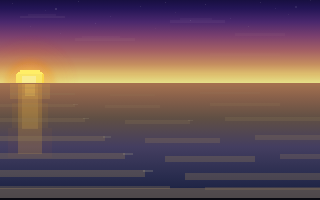
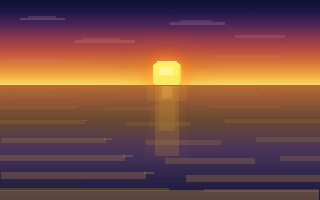
Seascape: sun and moon move as seen west from Mikuni
The view is the Sea of Japan from Mikuni, Fukui, looking west, but the sun
rose out of the sea on the left and arced symmetrically to the right, and
the full moon rose out of the sea right after sunset. From there both rise
behind the viewer over land and only ever set into the sea.

- Sun and moon positions come from real altitude/azimuth at 36.2°N
  (equinox), projected with a deliberately wide field of view so the sun
  stays on screen from late morning: it swings in at the upper left,
  peaks near the top left and sinks diagonally down-right into the sea
- The moon is a couple of days short of full: in view from mid-dusk at
  the upper left, setting into the sea just before dawn, warming as it
  gets low
- Dawn colours are pastel (pink Belt of Venus over a blue-grey horizon)
  instead of an orange glow over the sea; morning sea sparkles are faint
  and no longer warm
- DAY preset moves to 0.38 so the sun sits comfortably in frame
- Landing-page thumbnail now captures the sunset (t=0.61) instead of the
  old sunrise-from-the-sea frame

Claude-Session: https://claude.ai/code/session_01UkZh3SWPSGj722SgHXnTod

diff --git a/seascape.html b/seascape.html
@@ -269,7 +269,7 @@ let g_thunder=0; // 雷トリガーカウンター（増加でオーディオIIF
 // starting at sunrise); picking a preset time-lapses forward to its phase and
 // holds the scene there. The choice is remembered per browser.
 // Debug: ?t=0.3 freezes the phase.
-const TOD={morning:0.08,day:0.30,sunset:0.61,night:0.82};
+const TOD={morning:0.08,day:0.38,sunset:0.61,night:0.82};
 const TOD_KEY='chill-scenes:seascape:time';
 const clock=(function(){
   const reduceMotion=matchMedia('(prefers-reduced-motion: reduce)');
@@ -333,18 +333,20 @@ function h2r(h){return[parseInt(h.slice(1,3),16),parseInt(h.slice(3,5),16),parse
 function r2h(r,g,b){return'#'+[r,g,b].map(v=>Math.round(Math.max(0,Math.min(255,v))).toString(16).padStart(2,'0')).join('');}
 function lerp(a,b,t){const A=h2r(a),B=h2r(b);return r2h(A[0]+(B[0]-A[0])*t,A[1]+(B[1]-A[1])*t,A[2]+(B[2]-A[2])*t);}
 
-// Phase layout (starts at sunrise):
-// 0.00 = sunrise (sun on left horizon)
-// 0.05 = sun clearing horizon, golden hour ending
+// Phase layout (starts at sunrise). The view looks west over the Sea of Japan
+// from Mikuni, Fukui, so the sun rises behind the viewer and sets into the sea:
+// 0.00 = sunrise behind the viewer; pink band over the sea (Belt of Venus)
+// 0.05 = morning light, sun still out of view
 // 0.15 = morning, sky getting blue
+// 0.25 = sun swings into view at the upper left
 // 0.30 = midday, full blue sky
-// 0.45 = afternoon
-// 0.55 = sun approaching right horizon
-// 0.62 = sunset (sun on right horizon)
+// 0.45 = afternoon, sun descending toward the sea
+// 0.55 = golden hour
+// 0.62 = sunset (sun touching the sea)
 // 0.70 = dusk, twilight
+// 0.74 = moon swings into view at the upper left
 // 0.78 = night
-// 0.92 = deep night
-// 0.95 = pre-dawn
+// 0.95 = pre-dawn, moon setting into the sea
 // 1.00 = sunrise again
 const KF=[0, 0.05, 0.15, 0.30, 0.45, 0.55, 0.62, 0.70, 0.78, 0.95, 1.0];
 function interpKF(colors,p){
@@ -356,31 +358,34 @@ function interpKF(colors,p){
 }
 
 // Sky: sunrise,goldenEnd,morning,midday,afternoon,preSunset,sunset,dusk,night,preDawn,sunrise
+// Dawn and dusk are deliberately unlike: the sun rises behind the viewer, so the
+// western sky at sunrise is pastel (pink Belt of Venus over the blue-grey
+// Earth's shadow at the horizon); only sunset gets the orange glow over the sea.
 const SKY=[
   //sunrise  goldEnd   morning   midday    afternoon preSunset sunset    dusk      night     preDawn   sunrise
-  ['#1a0830','#0c1a55','#1050aa','#1555bb','#1555bb','#1050aa','#0e0620','#040210','#010108','#010108','#1a0830'], //top
-  ['#2a1050','#152060','#2060bb','#2568cc','#2568cc','#2060bb','#1a0a30','#0a0518','#030210','#030210','#2a1050'],
-  ['#5a2060','#2a3888','#3580cc','#4088dd','#4088dd','#3580cc','#4a1545','#1a0a30','#060418','#060418','#5a2060'],
-  ['#993050','#4060aa','#5098dd','#60a5ee','#60a5ee','#5098dd','#992835','#301840','#0a0620','#0a0620','#993050'],
-  ['#cc5030','#5580cc','#70aaee','#80bbf5','#80bbf5','#70aaee','#cc4420','#553055','#0e0828','#0e0828','#cc5030'],
-  ['#e88020','#80aadd','#90c0f0','#a0d5ff','#a0d5ff','#90c0f0','#e87818','#774070','#121030','#121030','#e88020'],
-  ['#ffbb30','#a0ccee','#b0d8f8','#c0e8ff','#c0e8ff','#b0d8f8','#ffaa28','#996688','#161238','#161238','#ffbb30'],
-  ['#ffee55','#c0ddff','#d0eaff','#d8f0ff','#d8f0ff','#d0eaff','#ffdd50','#bb88aa','#1a1440','#1a1440','#ffee55'],//bottom
+  ['#232c66','#1c3070','#1050aa','#1555bb','#1555bb','#1050aa','#0e0620','#040210','#010108','#010108','#232c66'], //top
+  ['#343e7c','#26407e','#2060bb','#2568cc','#2568cc','#2060bb','#1a0a30','#0a0518','#030210','#030210','#343e7c'],
+  ['#4e5290','#3a5698','#3580cc','#4088dd','#4088dd','#3580cc','#4a1545','#1a0a30','#060418','#060418','#4e5290'],
+  ['#71649e','#5070b0','#5098dd','#60a5ee','#60a5ee','#5098dd','#992835','#301840','#0a0620','#0a0620','#71649e'],
+  ['#9a74a6','#6a8cc8','#70aaee','#80bbf5','#80bbf5','#70aaee','#cc4420','#553055','#0e0828','#0e0828','#9a74a6'],
+  ['#c486aa','#8eaedc','#90c0f0','#a0d5ff','#a0d5ff','#90c0f0','#e87818','#774070','#121030','#121030','#c486aa'],
+  ['#d89cae','#acc8ea','#b0d8f8','#c0e8ff','#c0e8ff','#b0d8f8','#ffaa28','#996688','#161238','#161238','#d89cae'],
+  ['#a294b4','#c4d8f0','#d0eaff','#d8f0ff','#d8f0ff','#d0eaff','#ffdd50','#bb88aa','#1a1440','#1a1440','#a294b4'],//bottom
 ];
 const SEA=[
-  ['#cc6622','#5588aa','#2888aa','#3090bb','#3090bb','#2888aa','#cc6622','#554055','#0a0818','#0a0818','#cc6622'],
-  ['#aa5522','#447799','#207099','#2580aa','#2580aa','#207099','#aa5522','#443044','#080615','#080615','#aa5522'],
-  ['#774422','#336688','#185888','#1c6898','#1c6898','#185888','#774422','#332233','#060410','#060410','#774422'],
-  ['#553355','#225577','#104878','#155888','#155888','#104878','#553355','#221828','#04030a','#04030a','#553355'],
-  ['#332244','#184466','#0c3868','#104878','#104878','#0c3868','#332244','#151020','#030208','#030208','#332244'],
-  ['#1a1433','#103355','#083058','#0a3868','#0a3868','#083058','#1a1433','#0a0815','#020105','#020105','#1a1433'],
+  ['#8a7a9e','#5588aa','#2888aa','#3090bb','#3090bb','#2888aa','#cc6622','#554055','#0a0818','#0a0818','#8a7a9e'],
+  ['#6e6890','#447799','#207099','#2580aa','#2580aa','#207099','#aa5522','#443044','#080615','#080615','#6e6890'],
+  ['#524e78','#336688','#185888','#1c6898','#1c6898','#185888','#774422','#332233','#060410','#060410','#524e78'],
+  ['#3a3a62','#225577','#104878','#155888','#155888','#104878','#553355','#221828','#04030a','#04030a','#3a3a62'],
+  ['#28284c','#184466','#0c3868','#104878','#104878','#0c3868','#332244','#151020','#030208','#030208','#28284c'],
+  ['#181834','#103355','#083058','#0a3868','#0a3868','#083058','#1a1433','#0a0815','#020105','#020105','#181834'],
 ];
-const WV_C=['#bb7733','#4488aa','#4499bb','#5599bb','#5599bb','#4499bb','#bb7733','#443344','#0a0a15','#0a0a15','#bb7733'];
-const FM_C=['#ccaa77','#88bbcc','#99ccdd','#aaddee','#aaddee','#99ccdd','#ccaa77','#554466','#181830','#181830','#ccaa77'];
-const CH_C=['#ffccbb','#ddeeff','#eef5ff','#ffffff','#ffffff','#eef5ff','#ffccbb','#776688','#181828','#181828','#ffccbb'];
-const CM_C=['#ffcc88','#cce0ff','#ddeeff','#ffffff','#ffffff','#ddeeff','#ffcc88','#554466','#0c0c18','#0c0c18','#ffcc88'];
-const CL_C=['#dd7755','#aaccee','#bbddee','#ccddee','#ccddee','#bbddee','#dd7755','#443355','#080810','#080810','#dd7755'];
-const HG_C=['#ffaa33','#88bbdd','#aaddff','#aaddff','#aaddff','#aaddff','#ffaa33','#884466','#0a0a20','#0a0a20','#ffaa33'];
+const WV_C=['#7c7498','#4488aa','#4499bb','#5599bb','#5599bb','#4499bb','#bb7733','#443344','#0a0a15','#0a0a15','#7c7498'];
+const FM_C=['#b8a8c4','#88bbcc','#99ccdd','#aaddee','#aaddee','#99ccdd','#ccaa77','#554466','#181830','#181830','#b8a8c4'];
+const CH_C=['#ffc8c8','#ddeeff','#eef5ff','#ffffff','#ffffff','#eef5ff','#ffccbb','#776688','#181828','#181828','#ffc8c8'];
+const CM_C=['#f6bcc0','#cce0ff','#ddeeff','#ffffff','#ffffff','#ddeeff','#ffcc88','#554466','#0c0c18','#0c0c18','#f6bcc0'];
+const CL_C=['#b88aa4','#aaccee','#bbddee','#ccddee','#ccddee','#bbddee','#dd7755','#443355','#080810','#080810','#b88aa4'];
+const HG_C=['#d8a0b8','#88bbdd','#aaddff','#aaddff','#aaddff','#aaddff','#ffaa33','#884466','#0a0a20','#0a0a20','#d8a0b8'];
 
 const skE=[...Array(8)].map((_,i)=>document.getElementById('sk'+i));
 const seE=[...Array(6)].map((_,i)=>document.getElementById('se'+i));
@@ -392,27 +397,39 @@ const cLE=document.querySelectorAll('.cL');
 const hGl=document.getElementById('hGl');
 const hLn=document.getElementById('hLn');
 
-// SUN: left→right arc. Rises from below horizon, crosses at p≈0.02, zenith at p≈0.33, sets at p≈0.64
-function sunPos(p){
-  if(p>0.70)return null;
-  const sp=(p-0.02)/0.62; // sp=0 → horizon, <0 → below
-  const x=30+Math.max(0,Math.min(sp,1))*260;
-  const y=H-65*Math.sin(sp*Math.PI); // unclamped → naturally goes below horizon
-  return{x,y,sp};
-}
+// SUN & MOON as seen from Mikuni (Fukui, 36.2°N) looking west over the Sea of
+// Japan. Both rise behind the viewer, over land, so neither ever comes up out
+// of the sea: they swing in from the upper left (the southern sky) and sink
+// diagonally down-right into the sea. Positions are real altitude/azimuth at
+// the equinox (sun sets due west), projected with a far wider field of view
+// than a real lens: at a natural angle the sun would only be on screen for the
+// last couple of hours before sunset, so this keeps it in view from late
+// morning while the path keeps its true shape.
+const LAT=36.2*Math.PI/180;
+const SKY_KX=1.45,SKY_KY=1.21,WEST_X=176; // px per degree of azimuth / altitude, x of due west
 
-// MOON: left→right arc (same direction). Rises p≈0.66, zenith p≈0.82, sets p≈0.98
-function moonPos(p){
-  if(p<0.62)return null;
-  // Handle wrap: if p<0.04, treat as p+1 for the tail end of setting
-  let pp=p;
-  if(pp<0.5)pp+=1; // wrap-safe (moon never visible at p<0.5)
-  const mp=(pp-0.66)/0.32; // mp=0 → horizon, 0.5 → zenith, 1 → horizon
-  const x=30+Math.max(0,Math.min(mp,1))*260;
-  const y=H-50*Math.sin(mp*Math.PI);
-  if(y>H+30)return null; // far below, stop
-  return{x,y,mp};
+// Sun's hour angle (degrees): -90 at sunrise (p=0.025), 0 at noon, +90 at
+// sunset (p=0.645); the night runs at its own rate from there
+function sunHA(p){
+  if(p<0.025)p+=1;
+  return p<0.645?-90+(p-0.025)/0.62*180:90+(p-0.645)/0.38*180;
 }
+function skyPos(ha,dec){
+  const h=ha*Math.PI/180,d=dec*Math.PI/180;
+  const alt=Math.asin(Math.sin(LAT)*Math.sin(d)+Math.cos(LAT)*Math.cos(d)*Math.cos(h))*180/Math.PI;
+  const az=Math.atan2(-Math.sin(h),Math.tan(d)*Math.cos(LAT)-Math.sin(LAT)*Math.cos(h))*180/Math.PI; // 0=N, -90=W
+  return{x:WEST_X+((az+360)%360-270)*SKY_KX,y:H-alt*SKY_KY,alt};
+}
+// null once fully sunk or out of view to the left (behind the viewer)
+const onScreen=o=>o.alt>-12&&o.x>-40?o:null;
+
+// In view from p≈0.25 (upper left) until it sinks into the sea at p≈0.65
+function sunPos(p){return onScreen(skyPos(sunHA(p),0));}
+
+// The moon is a couple of days short of full (drawn as a full disc): 25° short
+// of opposite the sun, so it rises behind the viewer before dark, swings into
+// view at p≈0.74 and sets into the sea just before dawn (p≈0.98)
+function moonPos(p){return onScreen(skyPos(sunHA(p)+180+25,5));}
 
 function nightLevel(p){
   if(p>=0.62&&p<0.78)return (p-0.62)/0.16;
@@ -480,15 +497,15 @@ function updatePositions(p){
   const mp=moonPos(p);
   if(mp){
     moonI.setAttribute('transform',`translate(${mp.x},${mp.y})`);
-    const moonRise=Math.max(0,Math.min(1,mp.mp*3.6));
-    const moonVisible=0.06+0.94*nL;
-    moonG.setAttribute('opacity',moonRise*moonVisible);
+    moonG.setAttribute('opacity',0.06+0.94*nL);
     moonI.setAttribute('filter',nL>0.72?'none':'url(#mF)');
-    moonCore.setAttribute('fill',lerp('#e3bfa8','#f6fbff',nL));
-    moonShade.setAttribute('fill',lerp('#a79698','#cdd8e5',nL));
-    moonCraters.setAttribute('fill',lerp('#9d8f9d','#bdcad8',nL));
+    // Warm in twilight and as it sinks toward the sea
+    const mc=Math.min(nL,Math.max(0,mp.alt)/12);
+    moonCore.setAttribute('fill',lerp('#e3bfa8','#f6fbff',mc));
+    moonShade.setAttribute('fill',lerp('#a79698','#cdd8e5',mc));
+    moonCraters.setAttribute('fill',lerp('#9d8f9d','#bdcad8',mc));
     moonHalo.setAttribute('opacity',0.95-(nL*0.5));
-    // Moon reflection: faint at rise, clearer in deeper night
+    // Moon reflection: faint in twilight, clearer in deeper night
     mrG.setAttribute('opacity',0.08+0.5*nL);
     const mx=mp.x;
     mr[0].setAttribute('x',mx-6);mr[1].setAttribute('x',mx-3);
@@ -815,9 +832,10 @@ loop();
   const ns='http://www.w3.org/2000/svg';
   const g=document.getElementById('dG');
   function getBr(p){
-    // Bright near sunrise/sunset, moderate midday, faint night
-    if(p<0.05)return 0.7;
-    if(p<0.15)return 0.7-(p-0.05)/0.1*0.3;
+    // Faint at sunrise (the sun is behind the viewer), moderate midday,
+    // bright around sunset, faint night
+    if(p<0.05)return 0.2;
+    if(p<0.15)return 0.2+(p-0.05)/0.1*0.2;
     if(p<0.45)return 0.4;
     if(p<0.55)return 0.4+(p-0.45)/0.1*0.3;
     if(p<0.65)return 0.7;
@@ -835,7 +853,7 @@ loop();
     el.setAttribute('x',x);el.setAttribute('y',y);
     el.setAttribute('width',Math.random()>.6?2:1);el.setAttribute('height',1);
     const warm=['#ffee88','#ffffcc','#ffdd66'],cool=['#aabbdd','#bbccee'],day=['#ffffee','#eef8ff','#ddeeff'];
-    const cols=(p>=0.78||p<0.02)?cool:(p>=0.15&&p<0.55)?day:warm;
+    const cols=(p>=0.78||p<0.02)?cool:p<0.55?day:warm;
     el.setAttribute('fill',cols[Math.floor(Math.random()*cols.length)]);
     el.setAttribute('opacity','0');g.appendChild(el);
     const dur=300+Math.random()*600,st=performance.now(),maxOp=br*(.3+Math.random()*.7);

diff --git a/CLAUDE.md b/CLAUDE.md
@@ -22,7 +22,7 @@ Hosted on Vercel as a static site. `vercel.json` enables clean URLs so `/seascap
 ## Files
 
 - `index.html` — Landing page hub linking to all scenes
-- `seascape.html` — "Seascape" scene (day-night cycle over the sea)
+- `seascape.html` — "Seascape" scene (day-night cycle over the Sea of Japan, looking west from Mikuni, Fukui)
 - `campfire.html` — "Campfire" scene (pixel-art campfire under starry sky)
 - `snowy-forest.html` — "Snowy Forest" scene (moonlit winter forest at night)
 - `rice-terrace.html` — "Rice Terraces" scene (GBA-style terraced paddies below Mt. Fuji with a day-night cycle)
@@ -103,7 +103,7 @@ A simple static hub page with card links to each scene. No JavaScript. Dark them
 
 ### Seascape Scene (`seascape.html`)
 
-Everything lives in a single HTML file (~850 lines). The `<script>` block contains several self-contained systems:
+Everything lives in a single HTML file (~900 lines). The view is the Sea of Japan seen from Mikuni, Fukui (36.2°N), looking west: the sun and moon rise behind the viewer over land and only ever set into the sea. The `<script>` block contains several self-contained systems:
 
 ### Day-Night Cycle (core timing)
 
@@ -113,11 +113,11 @@ Everything lives in a single HTML file (~850 lines). The `<script>` block contai
 
 ### Time-of-Day Control
 
-- Clock button (first in the audio panel) opens a small menu above the panel: MORNING (0.08) / DAY (0.30) / SUNSET (0.61) / NIGHT (0.82) / AUTO — phases in the `TOD` table
+- Clock button (first in the audio panel) opens a small menu above the panel: MORNING (0.08) / DAY (0.38) / SUNSET (0.61) / NIGHT (0.82) / AUTO — phases in the `TOD` table
 - Picking a preset time-lapses **forward** (eased, ~1–3 s, a whole night passes on the way to MORNING) and then holds that phase; waves, ships, clouds and audio keep moving. A target only just behind the current phase (< 0.1) eases back instead of replaying a full day
 - AUTO resumes the normal flow from wherever the scene is; the choice is remembered in `localStorage` (`chill-scenes:seascape:time`)
 - `prefers-reduced-motion` jumps straight to the preset; `updateColors()` drops its ~15 fps throttle while a time-lapse runs so the sky doesn't step
-- 11-keyframe color interpolation (`KF` array + `interpKF()`) drives sky, sea, wave, foam, and horizon colors
+- 11-keyframe color interpolation (`KF` array + `interpKF()`) drives sky, sea, wave, foam, and horizon colors. Dawn and dusk are deliberately asymmetric: sunrise is behind the viewer, so the sunrise column is a pastel pink band (Belt of Venus) over a blue-grey horizon; only sunset gets the orange glow and sun road over the sea
 - `lerp()` interpolates between hex color pairs
 
 ### SVG Visual Structure
@@ -125,7 +125,7 @@ Everything lives in a single HTML file (~850 lines). The `<script>` block contai
 - Sky: 8-stop vertical linear gradient (`#skyG`)
 - Sea: 6-stop vertical linear gradient (`#seaG`)
 - Horizon at `H = 85` in a `BASE_W=320 × BASE_H=200` viewBox
-- Sun arcs left-to-right (x 30→290); moon arcs right-to-left during night
+- Sun and moon use real altitude/azimuth for 36.2°N at the equinox (`sunHA()` → `skyPos()`), projected with a deliberately wide field of view (`SKY_KX`/`SKY_KY`, due west at `WEST_X`): the sun swings in from the upper left at p≈0.25, peaks near the top left around noon, and sinks diagonally down-right into the sea at p≈0.62–0.65 (no sunrise in view). The moon is a couple of days short of full (drawn full), 25° short of opposite the sun: in view from p≈0.74, setting into the sea just before dawn (p≈0.98), warming in colour as it gets low
 - `shape-rendering="crispEdges"` for pixel-art aesthetic
 
 ### Ship System (IIFE)
